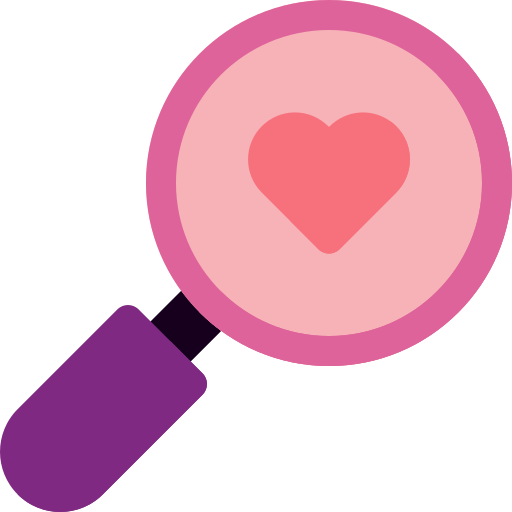
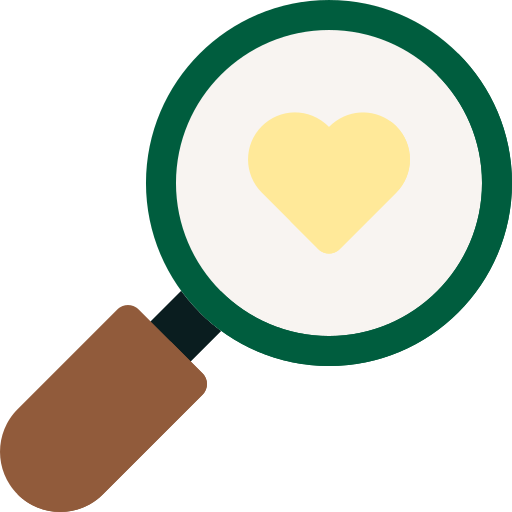
color and design changes

diff --git a/src/Components/Checkboxes.js b/src/Components/Checkboxes.js
@@ -15,6 +15,7 @@ export default function Checkboxes({params, onChange}) {
                         type='checkbox'
                         onChange={handleChange}
                         defaultChecked={params.parentheses}
+                        className='mr-2'
                     />
                     Exclude words in parentheses
                 </label>
@@ -26,6 +27,7 @@ export default function Checkboxes({params, onChange}) {
                         type='checkbox'
                         onChange={handleChange}
                         defaultChecked={params.quotes}
+                        className='mr-2'
                     />
                     Exclude words in quotes
                 </label>
@@ -37,6 +39,7 @@ export default function Checkboxes({params, onChange}) {
                         type='checkbox'
                         onChange={handleChange}
                         defaultChecked={params.smallWords}
+                        className='mr-2'
                     />
                     Exclude words 3 letters or less
                 </label>

diff --git a/src/App.scss b/src/App.scss
@@ -1,25 +1,29 @@
 @import '../node_modules/bulma';
+@import url('https://fonts.googleapis.com/css2?family=Roboto&display=swap');
 
-$light-pink: #ffe1e1;
-$candy-pink: #F7717D;
-$china-pink: #DE639A;
-$max-purple: #7F2982;
-$dark-purple: #16001E;
+$bg: #F8F4F1;
+$accent: #005D3E;
+$accent2: #FFE999;
 
 .App {
     margin: auto;
     width: 50%;
     padding: 3%;
-    background-color: white;
     border-radius: 10px;
+    border: 2px dashed $accent;
 }
 
-.TextInput {
-    margin-top: 2%;
+html, body {
+    height: 100%;
+    margin: 0;
 }
 
 body {
-    margin: auto;
-    background-color: $light-pink;
+    background-color: $bg;
     padding: 2%;
+    font-family: 'Roboto', sans-serif;
+}
+
+hr {
+    border: solid 1px $accent2;
 }

diff --git a/src/Components/TextInput.js b/src/Components/TextInput.js
@@ -39,12 +39,13 @@ export default function TextInput({params}) {
 
     return(
         <div className='TextInput'>
+            <p className='mb-1'><b>Count:</b> {count}</p>
             <textarea 
                 className='textarea' 
                 placeholder='Paste your text here'
                 onChange={handleChange}
+                rows={10}
             />
-            <h3>Count: {count}</h3>
         </div>
     )
 }

diff --git a/src/App.js b/src/App.js
@@ -22,6 +22,7 @@ function App() {
     <div className='App'>
       <h1 className='title'>Word Counter</h1>
       <Checkboxes params={params} onChange={handleChange}/>
+      <hr />
       <TextInput params={params}/>
     </div>
   );
